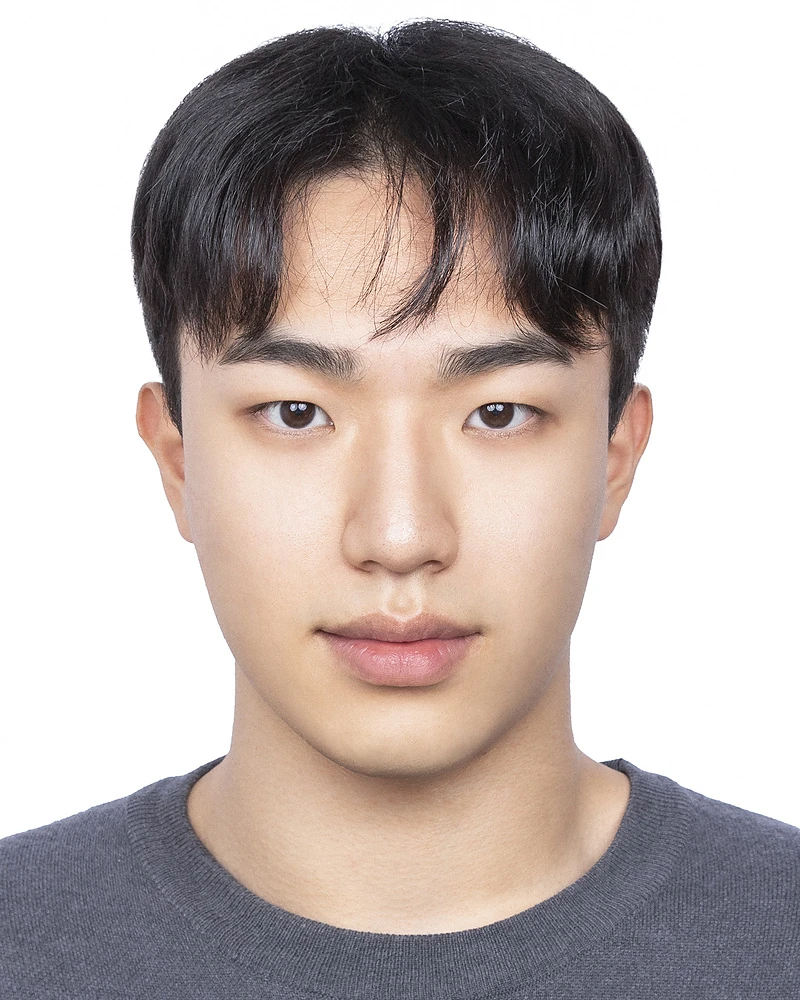
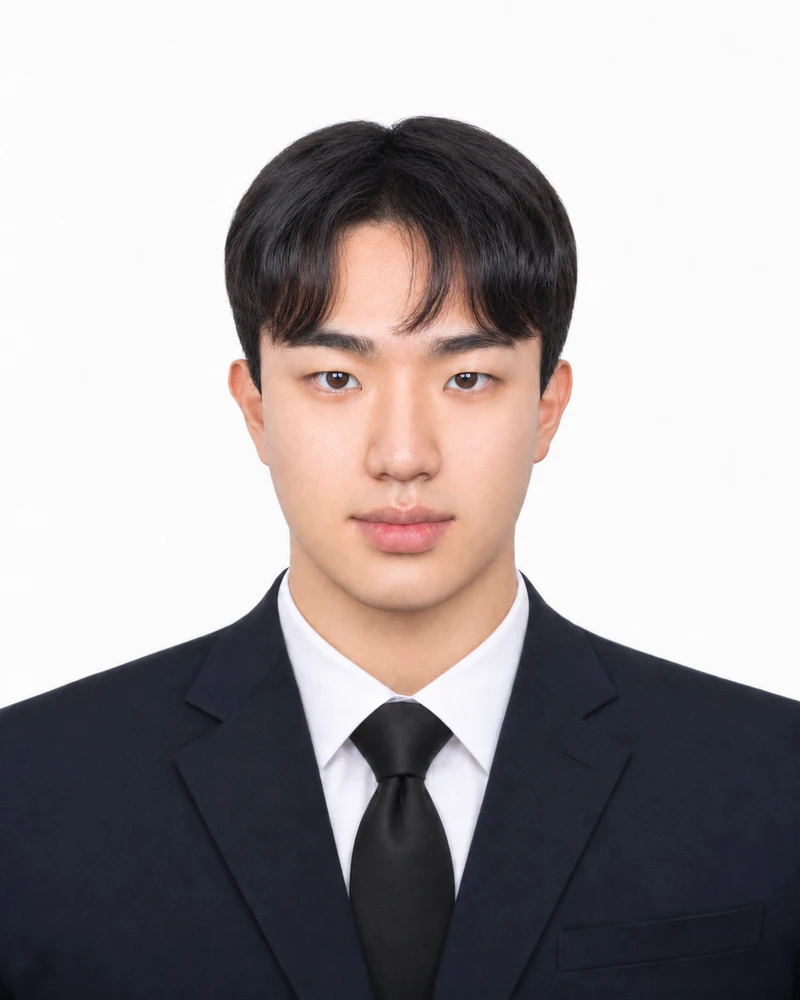
Update Daehyung Lim portrait

diff --git a/members/researchers/index.html b/members/researchers/index.html
@@ -975,7 +975,7 @@ a {
 
                     <img
                         class="member-photo"
-                        src="../../images/daehyung-lim.webp"
+                        src="../../images/daehyung-lim.webp?v=20261116"
                         loading="lazy"
                         decoding="async"
                         alt="Daehyung Lim"
